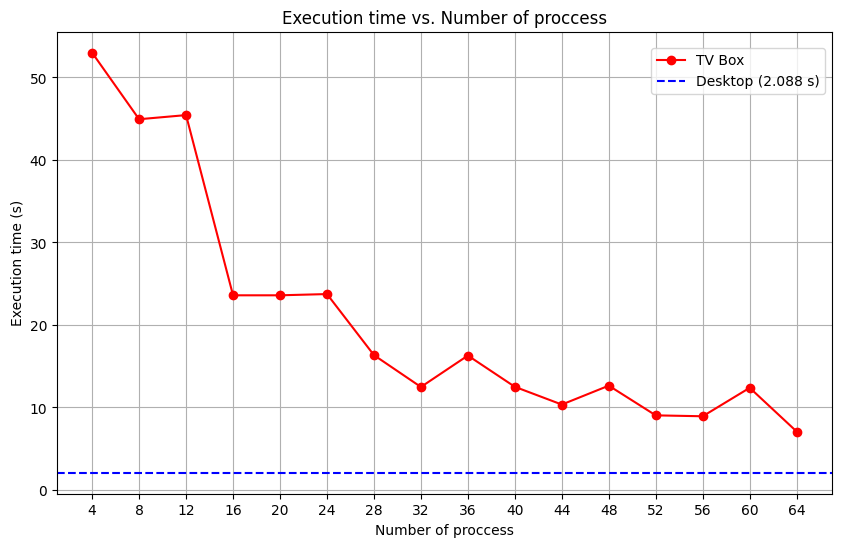
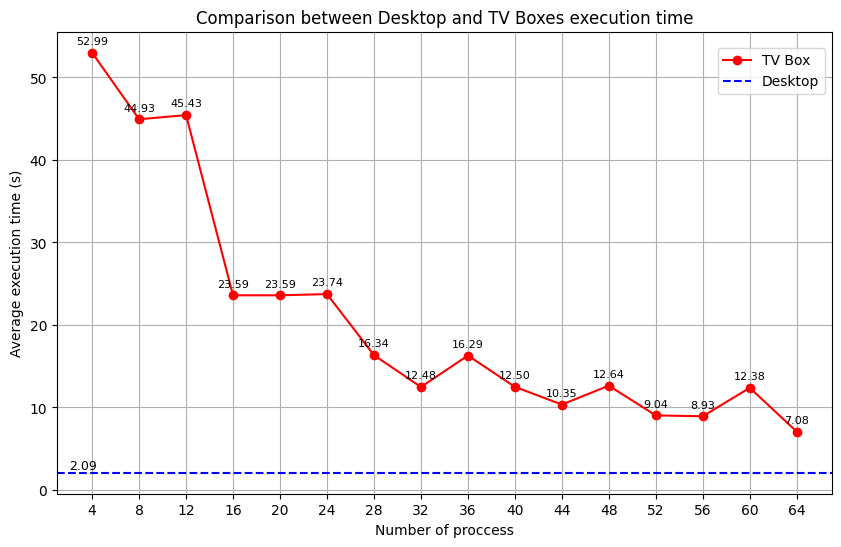
Finished CASE_STUDY documentation

diff --git a/CASE_STUDY.md b/CASE_STUDY.md
@@ -44,10 +44,61 @@ for NP in 4 8 12 16 20 24 28 32 36 40 44 48 52 56 60 64; do
 
 ## Results and performance gain
 
-The results are shown on the figure bellow, where the execution time on the y axis is related to the number of processing units on the x axis.
+In order to increase reliability, the above script was ran 10 times, generating 160 execution times, which were used to make 16 averages. All the values can be checked on the following table:
+
+|   Proccess |   Exec time 1 |   Exec time 2 |   Exec time 3 |   Exec time 4 |   Exec time 5 |   Exec time 6 |   Exec time 7 |   Exec time 8 |   Exec time 9 |   Exec time 10 |
+|------------:|-------------:|-------------:|-------------:|-------------:|-------------:|-------------:|-------------:|-------------:|-------------:|--------------:|
+|           4 |        51.78 |        56.23 |        56.65 |        56.37 |        55.71 |        54.53 |        54.09 |        49.19 |        47.71 |         47.64 |
+|           8 |        47.62 |        47.53 |        47.52 |        47.64 |        47.47 |        47.5  |        47.33 |        45.83 |        38.93 |         31.97 |
+|          12 |        47.74 |        47.91 |        48.16 |        47.95 |        47.83 |        47.89 |        47.95 |        47.73 |        39.75 |         31.39 |
+|          16 |        24.46 |        24.39 |        24.39 |        24.4  |        24.47 |        24.46 |        24.46 |        24.49 |        22.9  |         17.48 |
+|          20 |        24.51 |        24.66 |        24.58 |        24.63 |        24.58 |        24.56 |        24.55 |        24.53 |        22.53 |         16.74 |
+|          24 |        24.49 |        24.78 |        24.55 |        24.53 |        24.56 |        24.47 |        24.64 |        24.54 |        23.92 |         16.92 |
+|          28 |        16.81 |        16.88 |        16.9  |        17.15 |        17.08 |        16.85 |        16.99 |        17.18 |        15.71 |         11.83 |
+|          32 |        12.98 |        12.93 |        12.94 |        12.95 |        12.97 |        12.91 |        12.94 |        12.59 |        11.86 |          9.77 |
+|          36 |        17.03 |        16.91 |        16.79 |        16.78 |        16.79 |        16.74 |        16.79 |        16.76 |        16.44 |         11.91 |
+|          40 |        13.07 |        13.03 |        12.98 |        13.08 |        12.95 |        12.97 |        12.95 |        12.95 |        11.54 |          9.48 |
+|          44 |        10.63 |        10.85 |        10.77 |        10.73 |        10.61 |        10.63 |        10.66 |        10.64 |         9.67 |          8.33 |
+|          48 |        12.99 |        13.01 |        13.05 |        13.01 |        12.95 |        12.99 |        12.97 |        12.96 |        12.94 |          9.58 |
+|          52 |         9.11 |         9.11 |         9.22 |         9.67 |         9.78 |         9.39 |         9.11 |         9.44 |         8.11 |          7.49 |
+|          56 |         9.2  |         9.12 |         9.17 |         9.13 |         9.15 |         9.2  |         9.14 |         9.14 |         9.14 |          6.95 |
+|          60 |        12.9  |        12.91 |        12.92 |        12.99 |        13.03 |        12.97 |        12.89 |        12.92 |        11.52 |          8.76 |
+|          64 |         7.23 |         7.29 |         7.23 |         7.25 |         7.23 |         7.26 |         7.27 |         7.26 |         6.63 |          6.17 |
+
+<br>
+
+### Raw results
+
+The averaged results are also shown on the figure bellow, where the execution time on the y axis is related to the number of processing units on the x axis.
 
 ![Execution time](.assets/nth_prime_graph.png)
 
-## Comparison to Modern Desktops
+<br>
+
+### Performance gain
+
+Besides, the speed ups were calculated using the first 4 processes averaged execution time as reference and pluging into the formula:
+
+<span> Speedup ( S(p) )= <sup>T_ref</sup>/<sub>T(p)</sub></span>
+
+were T_ref is the sequential execution time and T(p) is the parallel execution time.
+
+The results, as the former ones, are shown graphically:
+
+![Speed ups](.assets/speed_up_nth_prime.png)
+
+## Comparison to a modern Desktop
+
+For comparison purposes, we also ran the same program on a desktop with the following specifications:
+
+Component         | Specification
+------------------|-------------------
+intel i3 11th gen |   1,7 - 4,1 Ghz
+RAM               |     20 GB
+Storage           |  256 GB SSD NVMe
+
+The figure below presents a visual comparison showing that, despite using 16 units, the TV Boxes hardly reach the performance level of the desktop.
 
 ![Execution time](.assets/comparison_nth_prime.png)
+
+It could be estimated that with more units, the TV Boxes might beat the desktop, but unexpected behavior due to overhead may actually delay the execution in some way. The reproduction of this experiment with better-performing TV Boxes is still a subject of testing, though. Benchmarking tests have already shown that, in certain metrics, the CPU of some models reach up to 8 times the load of the UniTV S1 model, however they are no as plentiful as the former one.
